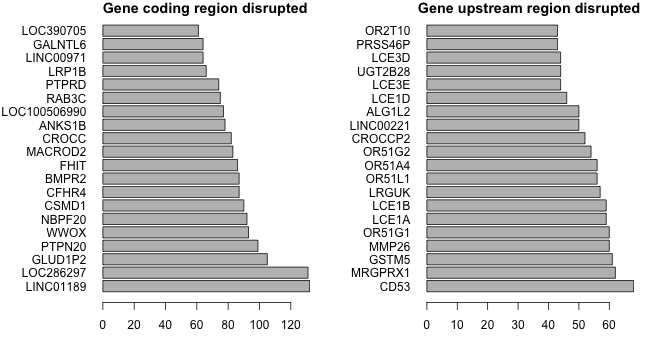
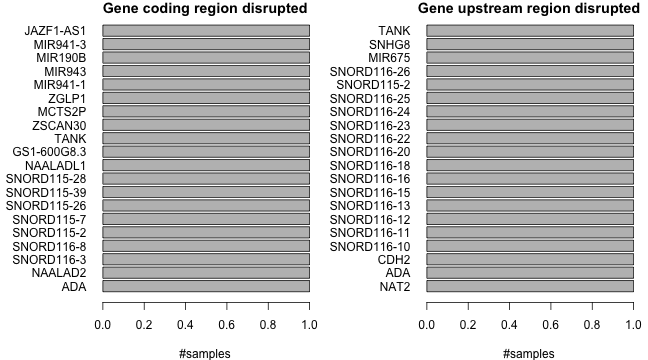
modified:   README.Rmd 	modified:   README.md 	modified:   figure/plot2-1.png 	modified:   figure/plot4-1.png 	modified:   figure/plot5-1.png 	modified:   figure/plot6-1.png 	modified:   figure/plot7-1.png 	modified:   vignettes/svcnvplus_howto.Rmd

diff --git a/README.md b/README.md
@@ -374,8 +374,8 @@ Most currently available cancer genomics datasets incorporate CNV characterizati
 * [CNV analysys and visualization](#cnv-analysys-and-visualization)
     * [CNV frequency plot](#cnv-frequency-plot)
     * [Percent genome change](#percent-genome-change)
-* [Co-localization of breakpoints](#co\-localization-of-breakpoints)
 * [Breakpoint burden](#breakpoint-burden)
+* [Co-localization of breakpoints](#co\-localization-of-breakpoints)
 * [Identification of shattered regions](#identification-of-shattered-regions)
     * [Chromosome shattering using segmentation data only](#chromosome-shattering-using-segmentation-data-only)
     * [Chromosome shattering using segmentation and SV data](#chromosome-shattering-using-segmentation-and-sv-data)
@@ -542,21 +542,27 @@ sv_breaks  <- sv.breaks(svdf)
 # define breakpoints from seg data based on certain CNV change cutoff
 cnv_breaks  <- seg.breaks(segdf,fc.pct = 0.2,verbose=FALSE)  
 
-# scatter plot comparing snv and sv breakpoint burden for a set of common samples
+# scatter plot comparing CNV and SV breakpoint burden for a set of common samples
 common_samples <- intersect(names(sv_breaks$brk.burden),names(cnv_breaks$brk.burden))
 
-dat <- log2(1+cbind(sv_breaks$brk.burden[common_samples],
+dat1 <- log2(1+cbind(sv_breaks$brk.burden[common_samples],
                     cnv_breaks$brk.burden[common_samples]))
 
-plot(dat, xlab="SV burden", ylab="CNV breakpoint burden")
-legend("topright",paste("cor=",cor(dat)[1,2], sep=""))
+dat2 <- log2(1+cbind(pct_change, 
+                     cnv_breaks$brk.burden[names(pct_change)]))
+
+par(mfrow=c(1,2))
+plot(dat1, xlab="SV burden", ylab="CNV breakpoint burden")
+legend("topright",paste("cor=",cor(dat1)[1,2], sep=""))
+plot(dat2, xlab="percentage genome changed", ylab="CNV breakpoint burden")
+legend("topright",paste("cor=",cor(dat2)[1,2], sep=""))
 ```
 
 <img src="figure/plot2-1.png" title="SV versus CNV breakpoint burden" alt="SV versus CNV breakpoint burden" style="display: block; margin: auto;" />
 
 ## Co-localization of breakpoints
 
-Both CNV segmentation profiles and structural variants calls produce orthogonal results for variants that involve dosage changes (duplications andn deletions). The function `match.breaks` can be used to compare both approaches as well as comparing calls from alternative algorithms.
+Both CNV segmentation profiles and SV calls produce orthogonal results for variants that involve dosage changes (duplications and deletions). The function `match.breaks` compare both approaches by identifying colocalizing breakpoints. This function can also be used to compare two sets of CNV brekpoints obtaind from different algorithms or SV callers since the format of both CNV and SV breaks objects have the same format.  
 
 
 ```r
@@ -581,7 +587,7 @@ grid(ny=NULL,nx=NA)
 
 Complex chromosomal rearrangements such as chromothripsis and chromoplexy are widespread events in many cancers and may have important pathogenic roles. `svcnvplus` incorporates tools to map and visualize shattered regions across multiple samples.
 
-We used LUNG cancer cell line profiles from the CCLE in order to illustrated these tools:
+We used LUNG cancer cell line profiles from the CCLE in order to illustrate these tools:
 
 Validate segmentation and SV data.frames
 
@@ -590,7 +596,7 @@ segdf <- validate.seg(segdat_lung_ccle)
 svdf <- validate.sv(svdat_lung_ccle)
 ```
 
-### Chromosome shattering using segmentation data only
+### Chromosome shattering using CNV segmentation data only
 
 The whole genome is binned into user defined `window.size` (Mb) and slided by `slide.size` (Mb) in order to identify regions with high CNV breakpoint density. Two cutoffs are considered for each genomic bin:\n
     * num.breaks = the minimum number of breakpoints
@@ -601,8 +607,8 @@ In addition, we evaluate the interquantile average of the distance between break
 
 ```r
 shatt_lung_cnv <- shattered.regions.cnv(segdf, fc.pct = 0.2, clean.brk = 4, window.size = 10,
-                                        slide.size = 2,num.breaks = 8, num.sd = 5,  
-                                        dist.iqm.cut = 150000,verbose=FALSE)
+                                        min.num.probes = 3, slide.size = 2,num.breaks = 8, 
+                                        num.sd = 5, dist.iqm.cut = 150000,verbose=FALSE)
 shatt_lung_cnv$regions.summary$A549_LUNG
 ```
 
@@ -625,10 +631,10 @@ In addition SVs provide linkage for each SV breakpoint pair which allow for an a
     
 
 ```r
-shatt_lung <- shattered.regions(segdf, svdf, fc.pct = 0.2,  min.num.probes = 5, clean.brk = 8,
+shatt_lung <- shattered.regions(segdf, svdf, fc.pct = 0.05,  min.num.probes = 3, clean.brk = 4,
                                 window.size = 10, slide.size = 2, num.seg.breaks = 6, 
                                 num.seg.sd = 5, num.sv.breaks = 6, num.sv.sd = 5, 
-                                num.common.breaks = 2, num.common.sd = 0, interleaved.cut = 0.5,
+                                num.common.breaks = 2, num.common.sd = 0, interleaved.cut = 0.33,
                                 dist.iqm.cut = 100000,verbose=FALSE)
 shatt_lung$regions.summary$NCIH522_LUNG
 ```
@@ -636,10 +642,10 @@ shatt_lung$regions.summary$NCIH522_LUNG
 ```
 ##   chrom     start       end nseg links reg.size dist.iqm.seg dist.iqm.sv n.brk.seg n.brk.sv n.orth.seg n.orth.sv interleaved conf
 ## 1  chr2 184162747 192989418    3     -  1.4e+07     393135.8   535717.60        13       10          6         6  0.80000000   lc
-## 2  chr6  10394318  28148876    6   3,4  2.0e+07     368925.2    57651.52        21       46         14        16  0.15151515   HC
+## 2  chr6  10394318  28148876    6   3,4  2.0e+07     389333.0    57651.52        19       46         14        16  0.15151515   HC
 ## 3  chr6  39012920  45302501    2   2,4  1.2e+07     204034.0   157078.00         9       13          5         6  0.00000000   HC
-## 4  chr6  53985510  70945739    7   2,3  2.2e+07     167862.6    71656.24        32       52         19        24  0.12195122   HC
-## 5 chr21  10934998  47273167   15     -  3.8e+07     278635.8   267349.74        70       67         30        33  0.08333333   HC
+## 4  chr6  53985510  70945739    7   2,3  2.2e+07     173605.7    71656.24        29       52         19        24  0.12195122   HC
+## 5 chr21  10994075  47273167   15     -  3.8e+07     294867.9   267349.74        65       67         31        34  0.08333333   HC
 ```
 
 Circos plotting is available via [circlize](https://cran.r-project.org/web/packages/circlize/index.html) package wrapper function `circ.chromo.plot`:
@@ -648,23 +654,24 @@ Circos plotting is available via [circlize](https://cran.r-project.org/web/packa
 ```r
 par(mfrow=c(1,2))
 circ.chromo.plot(shatt_lung,sample.id = "SCLC21H_LUNG")
-circ.chromo.plot(shatt_lung,sample.id = "NCIH522_LUNG")
+circ.chromo.plot(shatt_lung,sample.id = "NCIH510_LUNG")
 ```
 
 <img src="figure/plot4-1.png" title="Circos plot representing c LUNG cancer cell lines with chromothripsis" alt="Circos plot representing c LUNG cancer cell lines with chromothripsis" style="display: block; margin: auto;" />
 
+
 ### Recurrently shattered regions
 
-We evaluate the null hipothesis that shattered regions occour throughout the genome at random; To this end we first create an empirical null distribution based on given sample set under study. The null is then compared with the observed distribution. This also allows defining an empirical FDR cutoff above which regions are considered under selection presure for chromosome shattering.
+We evaluate the null hipothesis that shattered regions occour throughout the genome at random; To this end we first create an empirical null distribution based on the sample set under study. The null is then compared with the observed distribution to obtain empirical p-values corrected for multiple hypothesis testing. The corrected p-calues under statistical significance define regions  under selection presure for chromosome shattering.
 
 
 ```r
-fdr.test <- freq.p.test(shatt_lung_cnv$high.density.regions.hc, method="bonferroni", p.cut = 0.05)
+fdr.test <- freq.p.test(shatt_lung_cnv$high.density.regions.hc, method="fdr", p.cut = 0.01)
 ```
 
 ### Recurrently shattered regions plot
 
-We can visualize the aggregate map of shattered regions for all samples with `shattered.map.plot`
+We can visualize the aggregate map of shattered regions for all samples with `shattered.map.plot`; 
 
 
 ```r
@@ -736,10 +743,10 @@ deepdel <- apply(gene_cnv$cnvmat, 1, function(x) which(x < -2))
 
 ```r
 par(mfrow=c(1,2),mar=c(4,7,1,1))
-barplot(sort(unlist(lapply(amplified,length)),decreasing=TRUE)[1:20],col="red",
-        las=1,main="Amplified genes",horiz=TRUE)
-barplot(sort(unlist(lapply(deepdel,length)),decreasing=TRUE)[1:20],col="blue",
-        las=1,main="Candidate homozigously deleted genes",horiz=TRUE)
+barplot(sort(unlist(lapply(amplified,length)),decreasing=FALSE)[1:20],col="red",
+        las=1,main="Amplified genes",horiz=TRUE,xlab="#samples")
+barplot(sort(unlist(lapply(deepdel,length)),decreasing=FALSE)[1:20],col="blue",
+        las=1,main="Candidate homozigously deleted genes",horiz=TRUE,xlab="#samples")
 ```
 
 <img src="figure/plot6-1.png" title="Recurrently altered genes with overlapping CNV breakpoints" alt="Recurrently altered genes with overlapping CNV breakpoints" style="display: block; margin: auto;" />
@@ -752,10 +759,10 @@ Instead of focusing on high-level dosage changes, we evaluate whether CNV break 
 ```r
 results_cnv <- cnv.break.annot(segdf_clean, fc.pct = 0.2, genome.v="hg19",clean.brk = 8,upstr = 50000,verbose=FALSE)
 par(mfrow=c(1,2),mar=c(4,7,1,1))
-barplot(sort(unlist(lapply(results_cnv$disruptSamples,length)),decreasing=T)[1:20],
-        las=1,main="Gene coding region disrupted",horiz=TRUE)
-barplot(sort(unlist(lapply(results_cnv$upstreamSamples,length)),decreasing=T)[1:20],
-        las=1,main="Gene upstream region disrupted",horiz=TRUE)
+barplot(sort(unlist(lapply(results_cnv$disruptSamples,length)),decreasing=FALSE)[1:20],
+        las=1,main="Gene coding region disrupted",horiz=TRUE,xlab="#samples")
+barplot(sort(unlist(lapply(results_cnv$upstreamSamples,length)),decreasing=FALSE)[1:20],
+        las=1,main="Gene upstream region disrupted",horiz=TRUE,xlab="#samples")
 ```
 
 <img src="figure/plot7-1.png" title="Recurrently altered genes with overlapping CNV breakpoints" alt="Recurrently altered genes with overlapping CNV breakpoints" style="display: block; margin: auto;" />
@@ -776,12 +783,21 @@ results_sv <- sv.break.annot(svdf, sv.seg.size = 200000, genome.v="hg19",upstr =
 
 ```r
 par(mfrow=c(1,2),mar=c(4,7,1,1))
-barplot(sort(unlist(lapply(results_sv$disruptSamples,length)),decreasing=T)[1:20],
-        las=1,main="Coding region disrupted",horiz=TRUE)
-barplot(sort(unlist(lapply(results_sv$upstreamSamples,length)),decreasing=T)[1:20],
-        las=1,main="Upstream region disrupted",horiz=TRUE)
+barplot(sort(unlist(lapply(results_sv$disruptSamples,length)),decreasing=FALSE)[1:20],
+        las=1,main="Coding region disrupted",horiz=TRUE,xlab="#samples")
 ```
 
-<img src="figure/plot8-1.png" title="Recurrently altered genes with overlapping SV breakpoints" alt="Recurrently altered genes with overlapping SV breakpoints" style="display: block; margin: auto;" />
+```
+## Error in lapply(results_sv$disruptSamples, length): object 'results_sv' not found
+```
+
+```r
+barplot(sort(unlist(lapply(results_sv$upstreamSamples,length)),decreasing=FALSE)[1:20],
+        las=1,main="Upstream region disrupted",horiz=TRUE,xlab="#samples")
+```
+
+```
+## Error in lapply(results_sv$upstreamSamples, length): object 'results_sv' not found
+```
 
 
